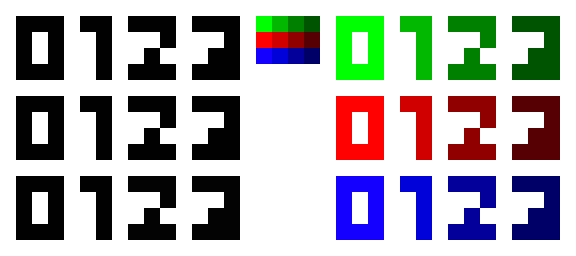
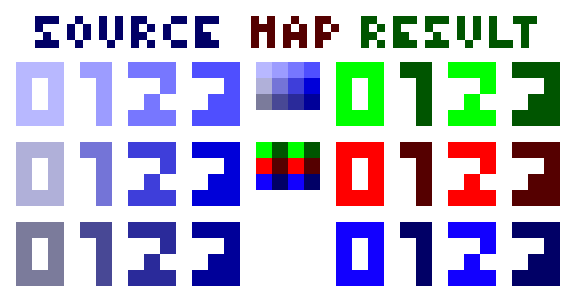
Added intermediate map system

diff --git a/src/main/java/dev/lyze/gdxAarthSkin/AarthSkinTextureAssetLoader.java b/src/main/java/dev/lyze/gdxAarthSkin/AarthSkinTextureAssetLoader.java
@@ -9,14 +9,16 @@ import com.badlogic.gdx.assets.loaders.TextureLoader;
 import com.badlogic.gdx.assets.loaders.resolvers.InternalFileHandleResolver;
 import com.badlogic.gdx.files.FileHandle;
 import com.badlogic.gdx.graphics.Color;
+import com.badlogic.gdx.graphics.Pixmap;
 import com.badlogic.gdx.graphics.Texture;
+import com.badlogic.gdx.math.GridPoint2;
 import com.badlogic.gdx.utils.Array;
 import com.badlogic.gdx.utils.GdxRuntimeException;
 import lombok.Data;
 import lombok.var;
 
 public class AarthSkinTextureAssetLoader extends AsynchronousAssetLoader<Texture, AarthSkinTextureAssetLoader.AarthSkinParameter> {
-    private String mapFile, textureFile;
+    private String textureFile, intermediateFile, mapFile;
 
     public AarthSkinTextureAssetLoader() {
         this(new InternalFileHandleResolver());
@@ -29,26 +31,75 @@ public class AarthSkinTextureAssetLoader extends AsynchronousAssetLoader<Texture
     @Override
     public void loadAsync(AssetManager manager, String fileName, FileHandle file, AarthSkinParameter parameter) {
         var content = file.readString().split("\n");
-        if (content.length != 2)
-            throw new GdxRuntimeException(new IllegalArgumentException("Aarth skin file should contain two lines: \nmap\ntexture"));
+        if (content.length != 3)
+            throw new GdxRuntimeException(new IllegalArgumentException("Aarth skin file should contain two lines: \nsource\nintermediate\nmap"));
 
-        mapFile = content[0].trim();
-        textureFile = content[1].trim();
+        textureFile = content[0].trim();
+        intermediateFile = content[1].trim();
+        mapFile = content[2].trim();
     }
 
     @Override
     public Texture loadSync(AssetManager manager, String fileName, FileHandle file, AarthSkinParameter parameter) {
-        var map = manager.get(mapFile, Texture.class);
         var texture = manager.get(textureFile, Texture.class);
-
-        if (!map.getTextureData().isPrepared())
-            map.getTextureData().prepare();
+        var map = manager.get(mapFile, Texture.class);
+        var intermediate = manager.get(intermediateFile, Texture.class);
 
         if (!texture.getTextureData().isPrepared())
             texture.getTextureData().prepare();
 
-        var mapPixmap = map.getTextureData().consumePixmap();
+        if (!intermediate.getTextureData().isPrepared())
+            intermediate.getTextureData().prepare();
+
+        if (!map.getTextureData().isPrepared())
+            map.getTextureData().prepare();
+
         var texturePixmap = texture.getTextureData().consumePixmap();
+        var intermediatePixmap = intermediate.getTextureData().consumePixmap();
+        var mapPixmap = map.getTextureData().consumePixmap();
+
+        var secondStepPixmap = convertToIntermediate(texturePixmap, intermediatePixmap);
+        var finalPixmap = convertToFinal(mapPixmap, secondStepPixmap, parameter != null && parameter.keepAlphaFromSource);
+
+        return new Texture(finalPixmap);
+    }
+
+    private Pixmap convertToIntermediate(Pixmap texturePixmap, Pixmap intermediatePixmap) {
+        var pixmap = new Pixmap(texturePixmap.getWidth(), texturePixmap.getHeight(), texturePixmap.getFormat());
+
+        var tmpPoint = new GridPoint2();
+
+        for (int x = 0; x < texturePixmap.getWidth(); x++) {
+            for (int y = 0; y < texturePixmap.getHeight(); y++) {
+                var color = texturePixmap.getPixel(x, y);
+
+                if (color == 0)
+                    continue;
+
+                var coordinate = findCoordinatesOfColor(intermediatePixmap, color, tmpPoint);
+                if (coordinate == null)
+                    throw new IllegalArgumentException("Couldn't find color " + new Color(color) + " on intermediate map.");
+
+                pixmap.setColor(coordinate.x / 255f, coordinate.y / 255f, 0, 1);
+                pixmap.drawPixel(x, y);
+            }
+        }
+        return pixmap;
+    }
+
+    private GridPoint2 findCoordinatesOfColor(Pixmap pixmap, int color, GridPoint2 tmp) {
+        for (int x = 0; x < pixmap.getWidth(); x++) {
+            for (int y = 0; y < pixmap.getHeight(); y++) {
+                if (pixmap.getPixel(x, y) == color)
+                    return tmp.set(x, y);
+            }
+        }
+
+        return null;
+    }
+
+    private Pixmap convertToFinal(Pixmap mapPixmap, Pixmap texturePixmap, boolean keepAlphaFromSource) {
+        var finalPixmap = new Pixmap(texturePixmap.getWidth(), texturePixmap.getHeight(), texturePixmap.getFormat());
 
         for (int x = 0; x < texturePixmap.getWidth(); x++) {
             for (int y = 0; y < texturePixmap.getHeight(); y++) {
@@ -66,17 +117,14 @@ public class AarthSkinTextureAssetLoader extends AsynchronousAssetLoader<Texture
                 var g = ((mapColor & 0x00ff0000) >>> 16) / 255f;
                 var b = ((mapColor & 0x0000ff00) >>> 8) / 255f;
 
-                var a = ((parameter != null && parameter.keepAlphaFromSource ? color : mapColor) & 0x000000ff) / 255f;
+                var a = ((keepAlphaFromSource ? color : mapColor) & 0x000000ff) / 255f;
 
-                texturePixmap.setColor(r, g, b, a);
-                texturePixmap.drawPixel(x, y);
+                finalPixmap.setColor(r, g, b, a);
+                finalPixmap.drawPixel(x, y);
             }
         }
 
-        texturePixmap.setColor(Color.RED);
-        texturePixmap.drawPixel(1, 6);
-
-        return new Texture(texturePixmap);
+        return finalPixmap;
     }
 
     @Override
@@ -84,11 +132,12 @@ public class AarthSkinTextureAssetLoader extends AsynchronousAssetLoader<Texture
         var descriptors = new Array<AssetDescriptor>();
 
         var content = file.readString().split("\n");
-        if (content.length != 2)
-            throw new GdxRuntimeException(new IllegalArgumentException("Aarth skin file should contain two lines: \nmap\ntexture"));
+        if (content.length != 3)
+            throw new GdxRuntimeException(new IllegalArgumentException("Aarth skin file should contain two lines: \nsource\nintermediate\nmap"));
 
         descriptors.add(new AssetDescriptor<>(resolve(content[0].trim()), Texture.class));
         descriptors.add(new AssetDescriptor<>(resolve(content[1].trim()), Texture.class));
+        descriptors.add(new AssetDescriptor<>(resolve(content[2].trim()), Texture.class));
 
         return descriptors;
     }

diff --git a/README.md b/README.md
@@ -15,7 +15,7 @@ A libgdx implemented of aartificial's way on loading textures
 
 ![](images/example.png)
 
-| Source file | Map file | Result |
+| Source file | Map files | Result |
 
 # Installation
 
